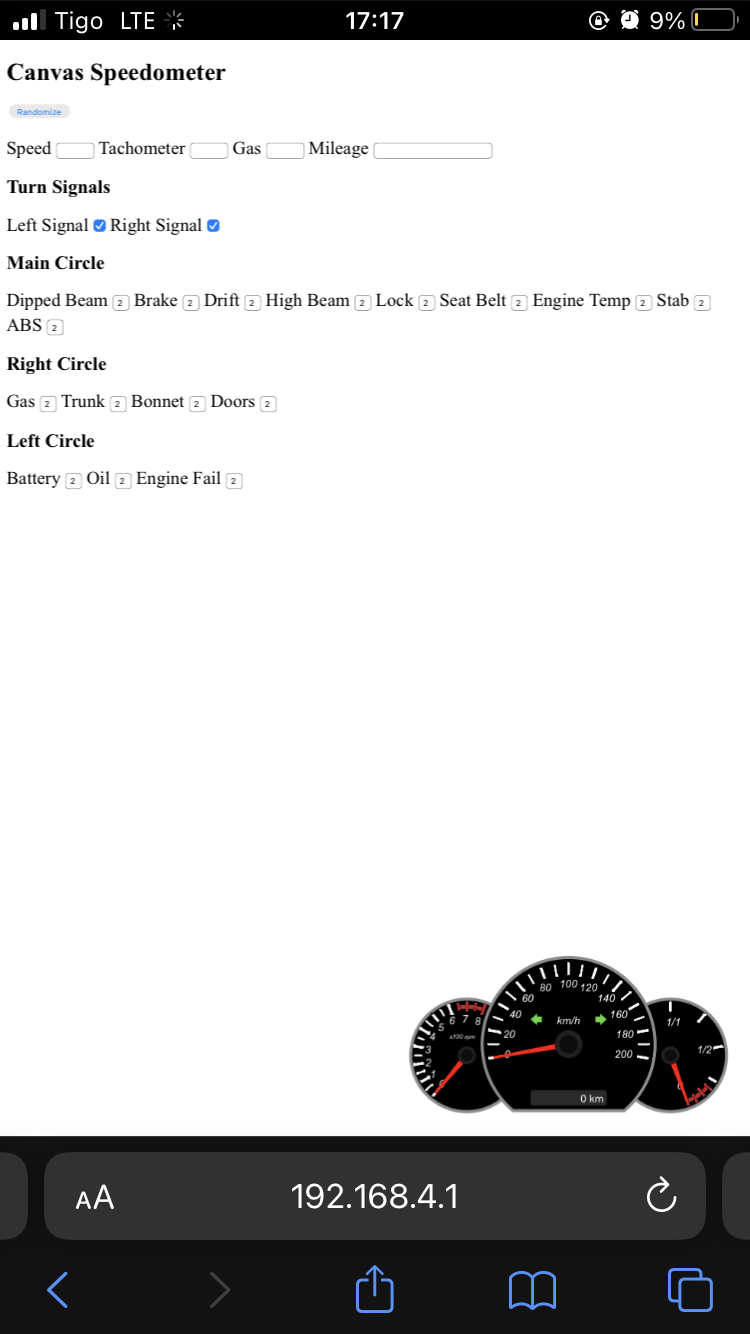
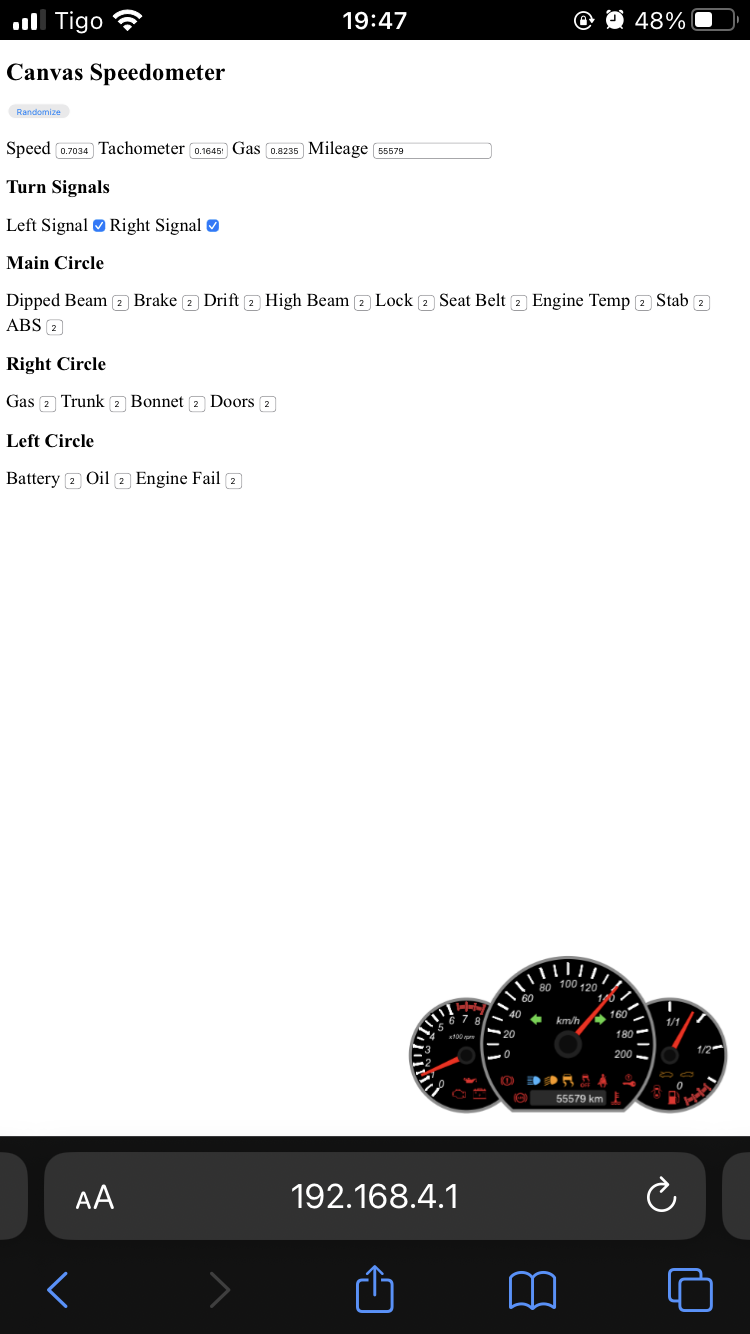
stream the larger svg file

diff --git a/app/templates/index.html b/app/templates/index.html
@@ -61,7 +61,7 @@
         <label for="engineFail">Engine Fail</label>
         <input type="number" name="engineFail" id="engineFail" min="0" max="3" step="1" value="2">
         <div id="speedometer">
-            <div style="display: none;"><img id="sprite" async src="static/icons.svg"></div>
+            <div style="display: none;"><img id="sprite" async src="svg/icons.svg"></div>
             <canvas id="canvas" width="425" height="210"></canvas>
         </div>
         <script src="static/fraction.min.js"></script>

diff --git a/app/work.py b/app/work.py
@@ -5,7 +5,23 @@ import _thread, time
 
 app = Microdot()
 Response.default_content_type = 'text/html'
+
 can_values = {}
+
+# Not a problem with more memory here
+@app.route('/svg/<path:path>')
+def svg(request, path):
+    def stream():
+        # TODO:Come back here for flash size
+        chunk_size = 2048
+        f = open("static/icons.svg", "r")
+        while True:
+            data = f.read(chunk_size)
+            if not data:
+                break
+            yield data
+            time.sleep(0.5)
+    return stream(), 200, {'Content-Type':'image/svg+xml'}
 
 @app.route('/static/<path:path>')
 def static(request, path):

diff --git a/app/boot.py b/app/boot.py
@@ -8,7 +8,7 @@ except:
 import network
 
 import esp
-esp.osdebug(None)
+esp.osdebug(0)
 
 import gc
 gc.collect()
